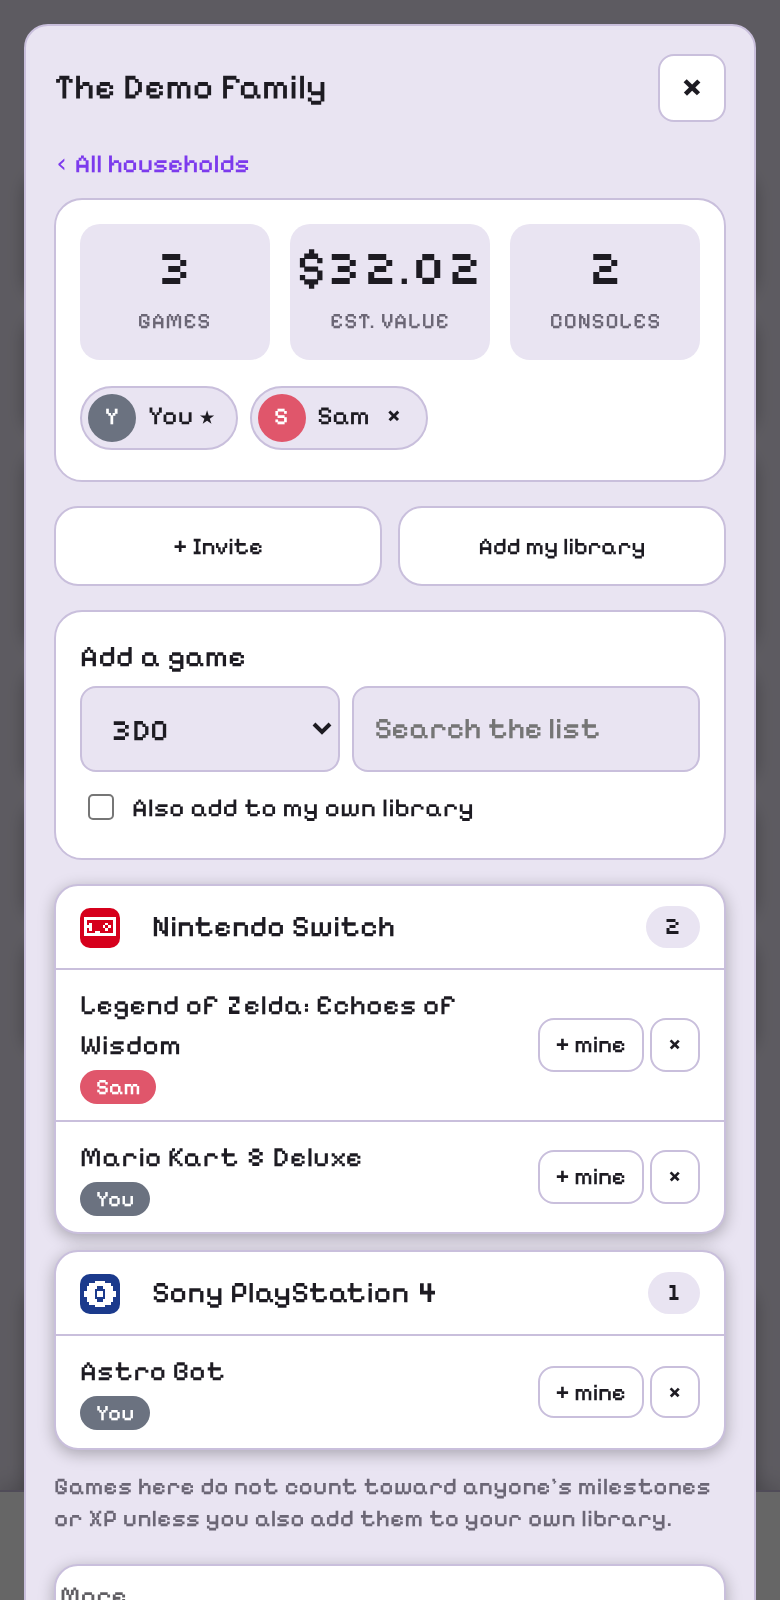
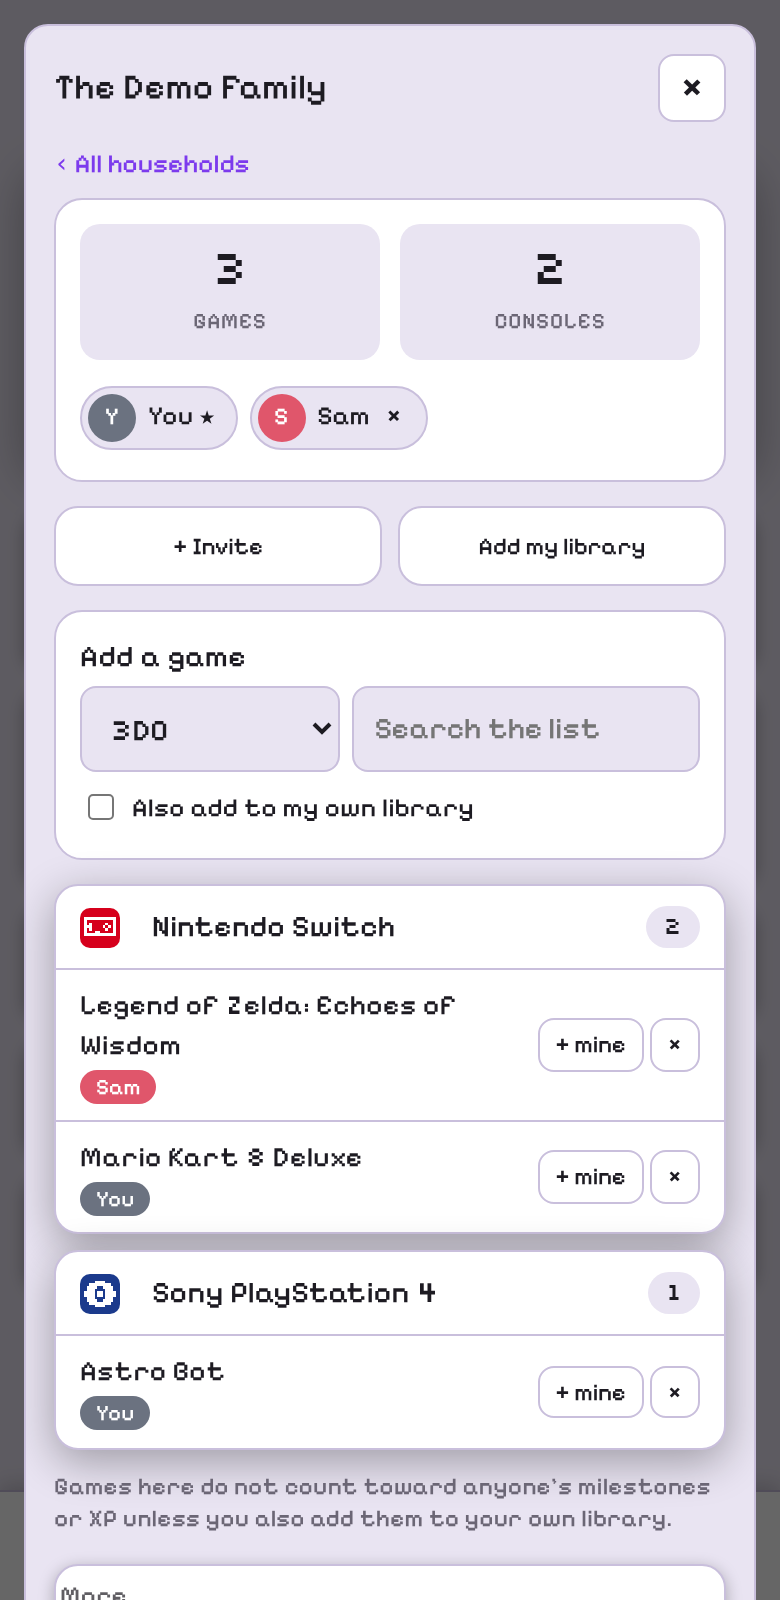
Site: remove marketplace, lending, prices from copy and screenshots; drop worth guide
Claude-Session: https://claude.ai/code/session_01M9RfYk6JQ3gTMSwtxdVSNU

Changed region(s): [[0.1846, 0.125, 0.8308, 0.25], [0.0923, 0.9062, 0.8923, 0.9375], [0.0923, 0.75, 0.8923, 0.7812]]

diff --git a/site/privacy.html b/site/privacy.html
@@ -8,13 +8,13 @@
 <li>Your username, bio, avatar choice, badges, XP and streak numbers.</li>
 <li>Your synced collection: games, condition, copies, wishlist and goals.</li>
 <li>Verification data: which games you scanned by barcode or label, and whether they were double-checked. Camera images are processed on your device and are not uploaded.</li>
-<li>Social data: friends, friend requests, blocks, reports, messages, profile comments, reactions, reviews, marketplace listings, meetups, event invites and household libraries you take part in.</li>
+<li>Social data: friends, friend requests, blocks, reports, messages, profile comments, reactions, reviews, meetups, event invites and household libraries you take part in.</li>
 <li>Optionally, a Steam ID you provide so your profile can show your online status and the game you are playing.</li><li>When you were last active in the app, if you leave online status sharing on, and a region if you choose to add one.</li><li>Up to 7 daily backups of your synced collection, so a mistake can be undone.</li>
 </ul>
 <h2>Who can see it</h2><p>Friends and other users can see the profile information and collection you choose to share, and messages go only to their recipients. Members of a household can see that household's shared list and who added each game. The developer can access the database to run and moderate the service, including reviewing reports.</p>
-<h2>Where it is kept</h2><p>Data is stored with Supabase, a hosted database service.</p><h2>Other services the app contacts</h2><p>To show prices, box art and game details, the app requests them from these services, some of them through our server where noted. Services contacted directly see your device's internet address and what was requested, but not your account or collection:</p><ul><li>PriceCharting (game prices). In the Android app, prices refresh automatically about once a day.</li><li>IGDB.com (box art, game descriptions and review scores), through our server, so the request carries only the game title. The server uses our own IGDB access; your account is not sent to IGDB. Game info and box art are provided by IGDB.com.</li><li>UPCitemdb (looking up a barcode you scanned), through our server. Our server keeps a shared list of barcodes already looked up and the game title each matched, with no account information, so repeat lookups are faster. Barcodes you scan to verify a game are also saved with your account, and may be used, with no names attached, to suggest a match to other collectors who scan the same barcode.</li><li>cdnjs and jsDelivr (the text reader used by label scan on the web version)</li><li>GitHub (checking for app updates)</li><li>Steam, through our server, only if you link a Steam ID</li><li>Anthropic (an AI service), through our server, only if you use the photo check in Verify with label, or the AI reader in Shelf scan. The photo you take is sent to it to read the title printed on your disc or cartridge, or the titles on the games in your shelf photo. We do not save the photo. We keep a count of how many photo checks your account has used, to limit it to a few per day.</li></ul><p>This website also loads fonts from Google Fonts.</p>
+<h2>Where it is kept</h2><p>Data is stored with Supabase, a hosted database service.</p><h2>Other services the app contacts</h2><p>To show box art and game details, the app requests them from these services, some of them through our server where noted. Services contacted directly see your device's internet address and what was requested, but not your account or collection:</p><ul><li>IGDB.com (box art, game descriptions and review scores), through our server, so the request carries only the game title. The server uses our own IGDB access; your account is not sent to IGDB. Game info and box art are provided by IGDB.com.</li><li>UPCitemdb (looking up a barcode you scanned), through our server. Our server keeps a shared list of barcodes already looked up and the game title each matched, with no account information, so repeat lookups are faster. Barcodes you scan to verify a game are also saved with your account, and may be used, with no names attached, to suggest a match to other collectors who scan the same barcode.</li><li>cdnjs and jsDelivr (the text reader used by label scan on the web version)</li><li>GitHub (checking for app updates)</li><li>Steam, through our server, only if you link a Steam ID</li><li>Anthropic (an AI service), through our server, only if you use the photo check in Verify with label, or the AI reader in Shelf scan. The photo you take is sent to it to read the title printed on your disc or cartridge, or the titles on the games in your shelf photo. We do not save the photo. We keep a count of how many photo checks your account has used, to limit it to a few per day.</li></ul><p>This website also loads fonts from Google Fonts.</p>
 <h2>Advertising and tracking</h2><p>The app has no ads, no ad networks and no analytics trackers. Your data is not sold.</p>
-<h2>Deleting your data</h2><p>In the app, open Menu, then Account, then <b>Delete my account</b>. This permanently deletes your account and everything stored online for it, including your profile, synced collection, scans, friends, messages, comments, reviews, listings, events and household memberships. Households you own pass to another member, or are deleted if you are the only member. The collection stored on your own phone is not affected. Accounts that are suspended or banned cannot be deleted while the suspension is active; see the <a href="terms.html">Rules and Terms</a>. If you cannot use the app, email <a href="mailto:support@chamberlacollector.com">support@chamberlacollector.com</a> and the account will be deleted.</p>
+<h2>Deleting your data</h2><p>In the app, open Menu, then Account, then <b>Delete my account</b>. This permanently deletes your account and everything stored online for it, including your profile, synced collection, scans, friends, messages, comments, reviews, events and household memberships. Households you own pass to another member, or are deleted if you are the only member. The collection stored on your own phone is not affected. Accounts that are suspended or banned cannot be deleted while the suspension is active; see the <a href="terms.html">Rules and Terms</a>. If you cannot use the app, email <a href="mailto:support@chamberlacollector.com">support@chamberlacollector.com</a> and the account will be deleted.</p>
 <h2>Children</h2><p>The app is not directed to children under 13, and accounts are intended for people 13 and older.</p>
 <h2>Changes</h2><p>If this policy changes, the date above will change and notable changes will appear in the app's patch notes.</p>
 <h2>Contact</h2><p><a href="mailto:support@chamberlacollector.com">support@chamberlacollector.com</a></p><p class="mu">No mail app set up? <a href="https://mail.google.com/mail/?view=cm&amp;to=support@chamberlacollector.com">Write to us in Gmail</a> or copy the address above.</p>

diff --git a/site/index.html b/site/index.html
@@ -4,7 +4,7 @@
 <meta charset="utf-8">
 <meta name="viewport" content="width=device-width,initial-scale=1">
 <link rel="icon" type="image/svg+xml" href="icon.svg"><link rel="icon" type="image/png" sizes="48x48" href="favicon-48.png"><link rel="apple-touch-icon" href="apple-touch-icon.png"><title>Chamberla Collector: Track Your Physical Video Game Collection</title>
-<meta name="description" content="Track your physical video game collection across every console. Scan barcodes, see what you own and what it is worth, and compare shelves with friends. No ads.">
+<meta name="description" content="Track your physical video game collection across every console. Scan barcodes, see what you own, and compare shelves with friends. No ads.">
 <link rel="canonical" href="https://chamberlacollector.com/">
 <meta name="robots" content="index,follow">
 <meta property="og:site_name" content="Chamberla Collector">
@@ -16,7 +16,7 @@
 <meta name="twitter:card" content="summary_large_image">
 <meta name="twitter:title" content="Chamberla Collector: Track Your Physical Video Game Collection">
 <meta name="twitter:image" content="https://chamberlacollector.com/img/shelf.png">
-<script type="application/ld+json">{"@context":"https://schema.org","@type":"SoftwareApplication","name":"Chamberla Collector","url":"https://chamberlacollector.com/","applicationCategory":"UtilitiesApplication","operatingSystem":"Android, Web","description":"Track your physical video game collection across every console. Scan barcodes, see what you own and what it is worth, and compare shelves with friends. No ads.","offers":{"@type":"Offer","price":"0","priceCurrency":"USD"}}</script>
+<script type="application/ld+json">{"@context":"https://schema.org","@type":"SoftwareApplication","name":"Chamberla Collector","url":"https://chamberlacollector.com/","applicationCategory":"UtilitiesApplication","operatingSystem":"Android, Web","description":"Track your physical video game collection across every console. Scan barcodes, see what you own, and compare shelves with friends. No ads.","offers":{"@type":"Offer","price":"0","priceCurrency":"USD"}}</script>
 <link rel="preconnect" href="https://fonts.googleapis.com">
 <link rel="preconnect" href="https://fonts.gstatic.com" crossorigin>
 <link href="https://fonts.googleapis.com/css2?family=Atkinson+Hyperlegible:wght@400;700&family=Pixelify+Sans:wght@500;700&display=swap" rel="stylesheet">
@@ -119,7 +119,7 @@ footer a{color:var(--ink)}
       <p class="fine">Scan games by barcode in the Android app or in Safari and Chrome on your phone, or add a whole shelf from one photo. You can also type the number under the barcode.</p>
     </div>
     <div class="stage">
-      <div class="phone"><img src="img/shelf.png" width="390" height="800" alt="The home screen showing a collection with percentages for each console and a total value"></div>
+      <div class="phone"><img src="img/shelf.png" width="390" height="800" alt="The home screen showing a collection with percentages for each console"></div>
       <div class="case" aria-hidden="true">
         <div class="t">Barcode match</div>
         <div class="bars"><div class="scan"></div></div>
@@ -157,7 +157,6 @@ footer a{color:var(--ink)}
         <h2>Your whole shelf, console by console</h2>
         <ul class="list">
           <li><b>Completion.</b> See how much of each console's library you own, from Atari to Switch.</li>
-          <li><b>Value.</b> An estimated total from market prices, kept honest: it is self-reported, not an appraisal.</li>
           <li><b>Streaks and milestones.</b> Daily check-ins and collection goals earn XP and badges.</li>
           <li><b>Loose, boxed or sealed.</b> Record the condition of every copy.</li>
         </ul>
@@ -189,7 +188,6 @@ footer a{color:var(--ink)}
     <ol class="steps">
       <li><h3><a href="guides/how-to-catalog-a-physical-game-collection.html">Catalog your collection</a></h3><p>A simple method for listing every game you own, console by console.</p></li>
       <li><h3><a href="guides/how-to-verify-a-game-you-own.html">Verify a game you own</a></h3><p>Confirm a game with its barcode or label so it counts.</p></li>
-      <li><h3><a href="guides/how-to-tell-what-your-game-collection-is-worth.html">Work out what it is worth</a></h3><p>Why condition matters and how to estimate value.</p></li>
     </ol>
   </section>
 

diff --git a/site/terms.html b/site/terms.html
@@ -15,13 +15,13 @@
 <li>Don't fake verification in any form. No made-up barcodes or labels, and no scanning games you don't own. Verification only shows that you scanned something. It doesn't prove the game is genuine or in good condition.</li>
 <li>Don't try to get around the limits, tamper with other people's data, or probe the service for weaknesses. If you find a security issue, please email us.</li>
 </ul>
-<h2>Listings between users</h2><p>The app lets users list games for trade or sale. Chamberla Collector doesn't handle payments, shipping or returns, and it makes no guarantees about any listing, buyer or seller. Deals are between you and the other person. Don't list stolen, counterfeit or illegal goods. Be very careful, meet safely and use a payment method that protects you.</p>
+
 <h2>Reporting and blocking</h2><p>You can block anyone and report any user from their profile or from a message. Reports are reviewed by the developer, and a reported message stays available to the reviewer even if the sender later deletes it.</p>
 <h2>What can happen if rules are broken</h2><p>An account may receive a warning, a temporary suspension or a permanent ban depending on what happened. A suspended account can still read but cannot post, message, comment, list or edit its profile. Content that breaks the rules can be removed. A suspended or banned account can't be deleted by its owner while the suspension is in force, and reports about it will be kept.</p>
 <h2>Appeals</h2><p>If you think a suspension or ban was a mistake then please email <a href="mailto:support@chamberlacollector.com">support@chamberlacollector.com</a> from the address on your account with a brief explanation. All appeals are read, but there is no set timeline for a decision.</p>
 <h2>Your content</h2><p>What you post remains yours. By posting it you're allowing the app to store it and show it to the people you've shared it with so that the app can function. You can delete your content, or your entire account, from the app at any time.</p>
 <h2>Copyright and takedowns</h2><p>Game info and box art in the app come from IGDB.com and from images users submit. Trademarks and game artwork belong to their owners. If you own the rights to an image or text shown in the app and want it removed, email <a href="mailto:support@chamberlacollector.com">support@chamberlacollector.com</a> with the game, where you saw it, and a short statement that you are the rights holder or their agent. Each game page also has a "Report this art" link. We will review it and remove the content when the claim is valid. Repeat infringers lose their accounts.</p>
-<h2>No guarantees</h2><p>The app is provided as is, free of charge, and may change, have bugs or be unavailable at any time. Game prices, lists and disc-to-digital information come from public and community sources and may be incorrect. Check them yourself before making a purchase decision. To the extent permitted by law, the developer is not liable for any losses from using the app.</p>
+<h2>No guarantees</h2><p>The app is provided as is, free of charge, and may change, have bugs or be unavailable at any time. Game lists and disc-to-digital information come from public and community sources and may be incorrect. Check them yourself before making a purchase decision. To the extent permitted by law, the developer is not liable for any losses from using the app.</p>
 <h2>Changes</h2><p>If the rules change, the date above will change, and significant changes will be listed in the app's patch notes. By continuing to use the app after a change, you accept it.</p>
 <h2>Contact</h2><p><a href="mailto:support@chamberlacollector.com">support@chamberlacollector.com</a></p><p class="mu">No mail app set up? <a href="https://mail.google.com/mail/?view=cm&amp;to=support@chamberlacollector.com">Write to us in Gmail</a> or copy the address above.</p>
 </body></html>

diff --git a/site/guides/index.html b/site/guides/index.html
@@ -2,5 +2,5 @@
 <link rel="icon" type="image/svg+xml" href="../icon.svg"><title>Guides for Game Collectors | Chamberla Collector</title>
 <meta name="description" content="Guides on cataloging, verifying and valuing a physical video game collection."><link rel="canonical" href="https://chamberlacollector.com/guides/">
 <style>body{font:17px/1.6 system-ui,sans-serif;max-width:680px;margin:0 auto;padding:20px 16px 60px;color:#1d1b2e;background:#fbfaff}h1{font-size:28px;line-height:1.2}h2{margin-top:30px;font-size:21px}a{color:#5b3fd0}.cta{display:inline-block;margin:18px 0;padding:12px 20px;background:#5b3fd0;color:#fff;border-radius:10px;text-decoration:none;font-weight:700}nav{font-size:14px;margin-bottom:18px}@media(prefers-color-scheme:dark){body{background:#15131f;color:#ece9f8}a{color:#a99bff}}</style></head><body>
-<nav><a href="../">Chamberla Collector</a> / <a href="./">Guides</a></nav><h1>Guides for Game Collectors</h1><p><a href="how-to-catalog-a-physical-game-collection.html">How to Catalog a Physical Video Game Collection</a></p><p><a href="how-to-verify-a-game-you-own.html">How to Verify a Physical Game You Own</a></p><p><a href="how-to-tell-what-your-game-collection-is-worth.html">How to Work Out What Your Game Collection Is Worth</a></p>
+<nav><a href="../">Chamberla Collector</a> / <a href="./">Guides</a></nav><h1>Guides for Game Collectors</h1><p><a href="how-to-catalog-a-physical-game-collection.html">How to Catalog a Physical Video Game Collection</a></p><p><a href="how-to-verify-a-game-you-own.html">How to Verify a Physical Game You Own</a></p>
 <p><a class="cta" href="../">Try Chamberla Collector, free</a></p></body></html>
